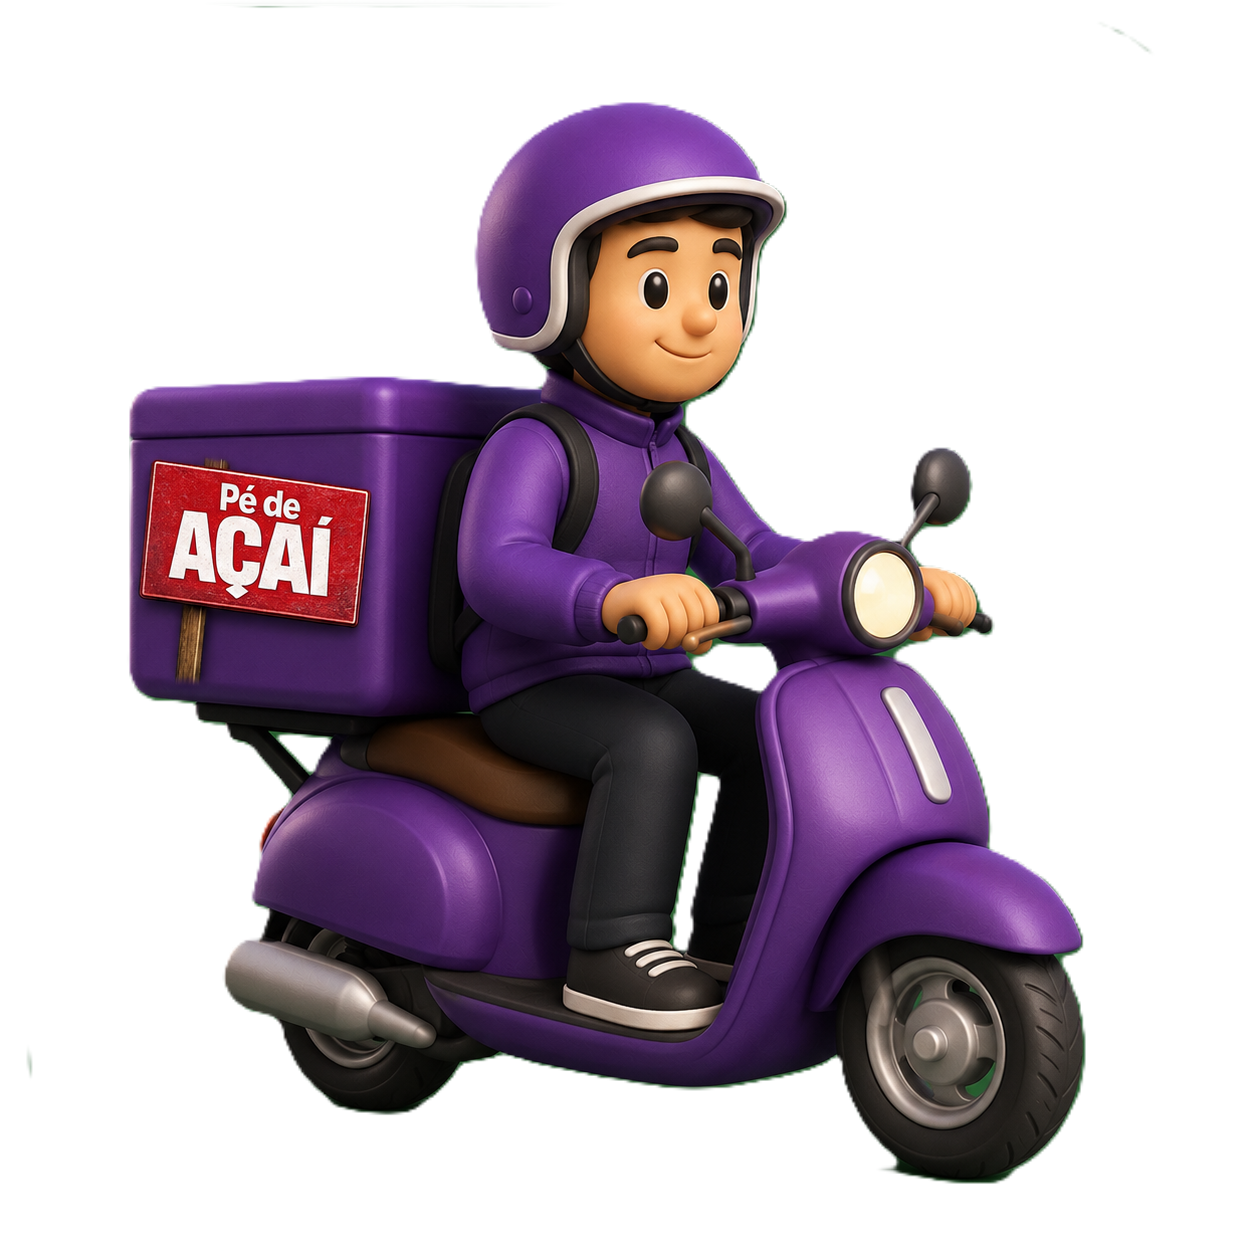
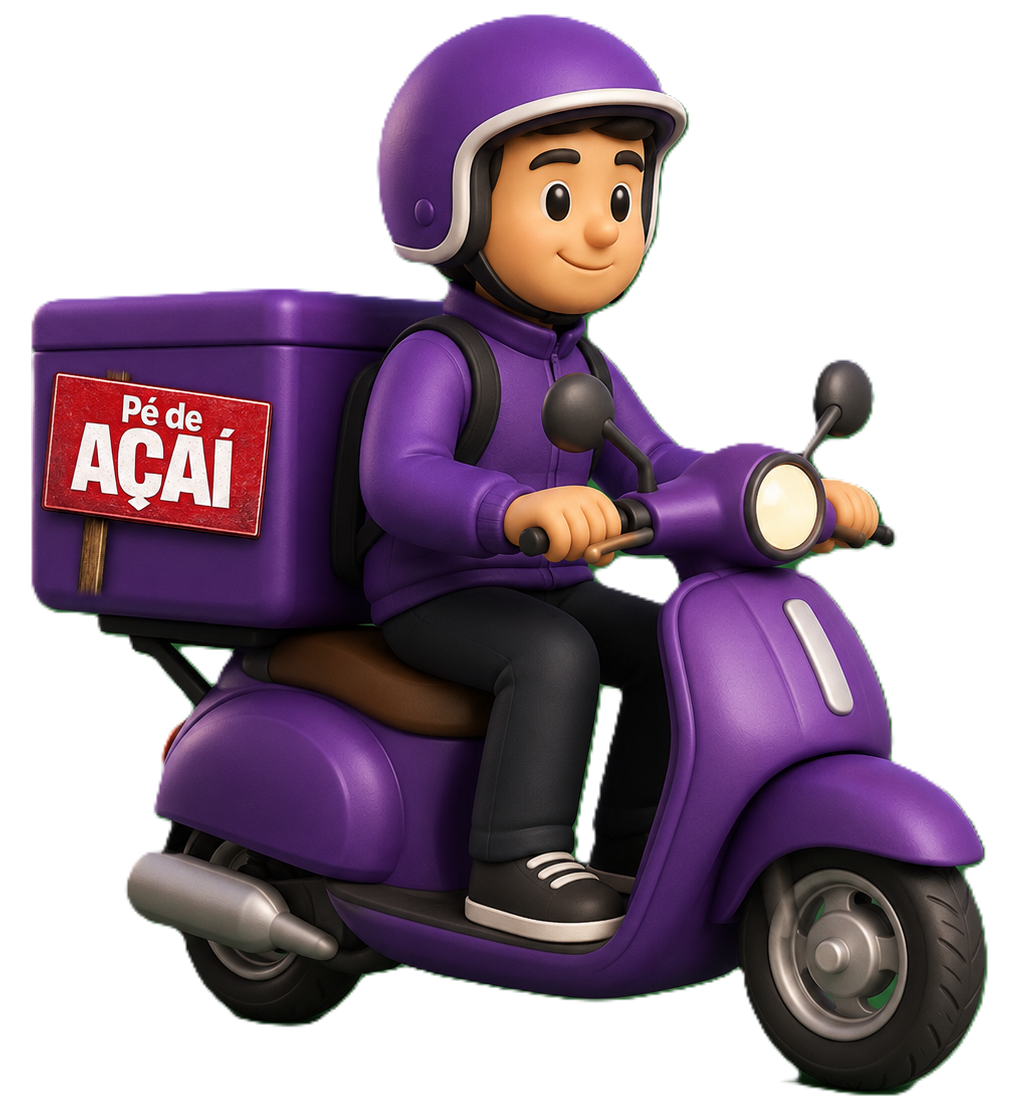
fix(pending): atualiza imagem + quebras de linha no texto da tela de análise

diff --git a/client/src/pages/MotoboyDashboard.jsx b/client/src/pages/MotoboyDashboard.jsx
@@ -879,8 +879,10 @@ export default function MotoboyDashboard() {
       <img src="/lp_motoboytrans.png" alt="entregador" style={{ width: 220, objectFit: 'contain', marginBottom: 24 }} />
       <div style={{ fontSize: 40, marginBottom: 12 }}>⏳</div>
       <div style={{ fontWeight: 800, fontSize: 22, color: 'white', marginBottom: 8 }}>Cadastro em análise</div>
-      <div style={{ fontSize: 14, color: 'rgba(255,255,255,0.7)', lineHeight: 1.6, maxWidth: 320, marginBottom: 32 }}>
-        Recebemos seu cadastro! Nossa equipe irá revisar seus dados e você receberá uma confirmação em breve.
+      <div style={{ fontSize: 14, color: 'rgba(255,255,255,0.7)', lineHeight: 1.8, maxWidth: 320, marginBottom: 32 }}>
+        Recebemos seu cadastro!<br />
+        Nossa equipe irá revisar seus dados e<br />
+        você receberá uma confirmação em breve.
       </div>
       <button onClick={logout} style={{
         background: 'rgba(255,255,255,0.15)', color: 'white', border: 'none',

diff --git a/client/public/sw.js b/client/public/sw.js
@@ -3,7 +3,7 @@
 // shell + imagens, network-only para API / socket / Supabase.
 // Vite coloca hash no nome dos assets → pode cachear para sempre.
 
-const STATIC_V  = 'rapidola-static-v73';
+const STATIC_V  = 'rapidola-static-v74';
 const IMAGE_V   = 'rapidola-images-v1';
 const MAX_IMGS  = 120; // máx de imagens em cache
 
